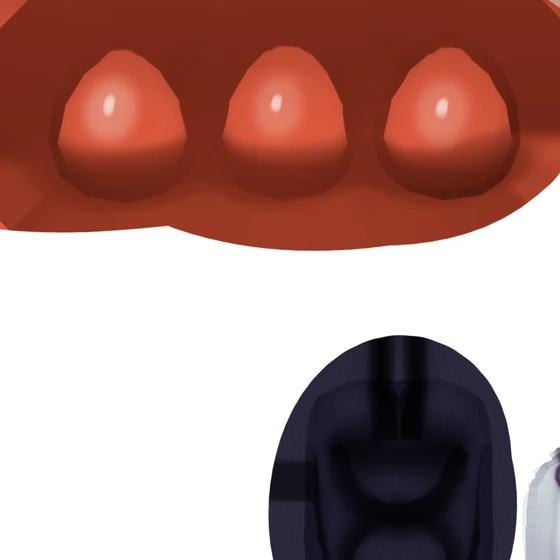
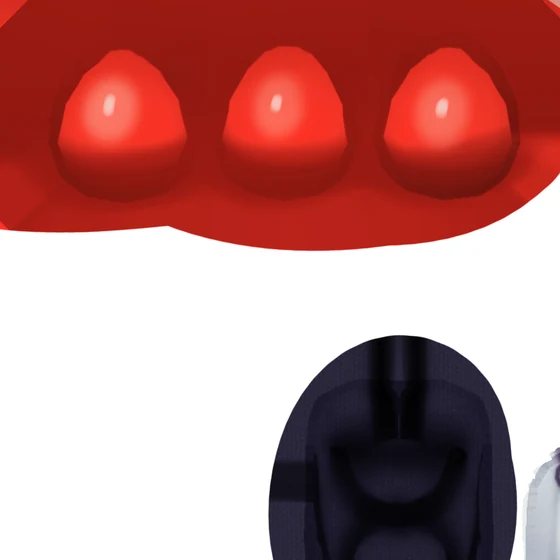
docs(manual): 実演とスクリーンショットの赤を作者プリセットの純赤に合わせる
実演の変更先に伝統色の「朱」(220,75,46) を使っていたが、作者プリセット AVATAR_A_Sneakers_Red /
Costume_Red_2 / Hair_Red の変更先はどれも純赤 (255,0,0) で、販促の赤とも食い違っていた。
変更先を純赤に固定し、スポイト位置もプリセットのサンプル色と同じトゲの明るい青にして、
製品の自動調整（AI 提案つき）で出し直した。伝統色は色見本の「ほかの色」として残し、先頭に赤を足す。

- 純赤では自動調整が模様保持を 0.9 に下げる。再現ゾーンが 1.0 固定で、再現検査（差 0 px）が止めた → 導出値を使う
- 模様保持の実演は 0.75 / 0.90 / 1.00（純赤だと 0.5 でもハイライトが灰色がかる）
- 許容範囲の実演（素のゾーン）は 0.30 でちょうどよく、0.60 で黒いアッパーへはみ出す掃引になった
- ウィンドウ全体・前後比較・差分表示を同じ状態で撮り直し。未使用の preview.webp を削除

diff --git a/docs/manual/index.html b/docs/manual/index.html
@@ -40,7 +40,7 @@
 <p>原本ファイルからも取り込み済みテクスチャからも画素を取り出せないとき（PSD・TGA・EXR などで Read/Write Enabled が無効なとき）は、ウィンドウに警告と「Read/Write を自動で有効にする」ボタンが出ます。ボタンを押すとインポート設定が書き換わり、有効になります。この操作は Undo できないため、確認ダイアログが出ます。PNG / JPG のテクスチャではこの警告は出ません。</p>
 </section>
 <section id="basics" data-id="basics" class="sec" data-sid="basics"><h2>基本的な使い方</h2>
-<figure class="ba"><div class="ba-stage"><img class="ba-after" src="img/demo/color-shu.webp" alt=""><img class="ba-before" src="img/demo/src.webp" alt=""><div class="ba-handle" role="slider" aria-valuemin="0" aria-valuemax="100" aria-valuenow="50" tabindex="0"><span></span></div><span class="ba-tag left">変更前</span><span class="ba-tag right">変更後</span></div><figcaption>つまんで左右に動かすと、変更前後を見比べられます</figcaption></figure>
+<figure class="ba"><div class="ba-stage"><img class="ba-after" src="img/demo/color-red.webp" alt=""><img class="ba-before" src="img/demo/src.webp" alt=""><div class="ba-handle" role="slider" aria-valuemin="0" aria-valuemax="100" aria-valuenow="50" tabindex="0"><span></span></div><span class="ba-tag left">変更前</span><span class="ba-tag right">変更後</span></div><figcaption>つまんで左右に動かすと、変更前後を見比べられます</figcaption></figure>
 <p>ウィンドウは ① 元テクスチャ → ② カラーゾーン → ③ プレビュー → ④ エクスポート の流れで上から並んでいます。番号どおりに進めれば一通り色替えできます。</p>
 <h3 id="basics--ステップ-1-元テクスチャを選ぶ" data-id="basics--ステップ-1-元テクスチャを選ぶ">ステップ 1: 元テクスチャを選ぶ</h3>
 <p>「① 元テクスチャ」の「テクスチャ」欄に、色を変えたいテクスチャをドラッグするか、欄をクリックして選びます。選ぶとプレビューに表示されます。</p>
@@ -71,17 +71,17 @@
 <ul><li>AI（Unity Sentis と AI モデル）が未導入のときは解析せず、導入・ダウンロードの案内を出します（「AI マスク提案」の「必要なもの」参照）。</li><li>AI が準備中（モデルのロード・画像の埋め込み計算）のときは、終わるまで待ってから解析します（進捗バーと中止ボタンが出ます）。</li><li>スポイトではなくカラーフィールドで色を指定したゾーンには位置がないため、AI 提案を参照せずに解析します（その旨の通知が出ます）。</li></ul>
 <h4 id="zones--許容範囲" data-id="zones--許容範囲" class="term">許容範囲</h4>
 <p>色の一致をどこまで許すかです（0.0〜1.0）。だいたい 0.15〜0.40 で調整します。</p>
-<figure class="demo" data-demo="tolerance" data-values="[&quot;0.05&quot;, &quot;0.20&quot;, &quot;0.30&quot;, &quot;0.45&quot;, &quot;0.60&quot;]" data-frames="[&quot;img/demo/tol-005.webp&quot;, &quot;img/demo/tol-020.webp&quot;, &quot;img/demo/tol-030.webp&quot;, &quot;img/demo/tol-045.webp&quot;, &quot;img/demo/tol-060.webp&quot;]" data-start="1"><figcaption class="demo-head"><span class="demo-title">許容範囲を動かす（自動調整を使わない場合）</span></figcaption><div class="stage"><img class="fr on" src="img/demo/tol-020.webp" alt="" width="560" height="560" loading="lazy"></div><div class="slider"><span class="lab">許容範囲</span><input type="range" min="0" max="4" step="1" value="1" aria-label="許容範囲"><output>0.20</output></div><p class="demo-note"><span class="frame-tag"><span class="tag" data-i="0">芯が大きく残る</span><span class="tag on" data-i="1">ハイライトの芯が残る（新規ゾーンの初期値）</span><span class="tag" data-i="2">まだ芯が残る</span><span class="tag" data-i="3">芯は消えたが、黒いアッパーが染まった</span><span class="tag" data-i="4">はみ出す</span></span>ハイライトの芯が消えるまで上げると、先に隣の黒い素材が染まります。自動調整はここを上げずに、ハイライトだけを拾います</p></figure>
+<figure class="demo" data-demo="tolerance" data-values="[&quot;0.05&quot;, &quot;0.20&quot;, &quot;0.30&quot;, &quot;0.45&quot;, &quot;0.60&quot;]" data-frames="[&quot;img/demo/tol-005.webp&quot;, &quot;img/demo/tol-020.webp&quot;, &quot;img/demo/tol-030.webp&quot;, &quot;img/demo/tol-045.webp&quot;, &quot;img/demo/tol-060.webp&quot;]" data-start="1"><figcaption class="demo-head"><span class="demo-title">許容範囲を動かす（自動調整を使わない場合）</span></figcaption><div class="stage"><img class="fr on" src="img/demo/tol-020.webp" alt="" width="560" height="560" loading="lazy"></div><div class="slider"><span class="lab">許容範囲</span><input type="range" min="0" max="4" step="1" value="1" aria-label="許容範囲"><output>0.20</output></div><p class="demo-note"><span class="frame-tag"><span class="tag" data-i="0">芯が大きく残る</span><span class="tag on" data-i="1">ハイライトの芯が残る（新規ゾーンの初期値）</span><span class="tag" data-i="2">ちょうどよい</span><span class="tag" data-i="3">広め</span><span class="tag" data-i="4">黒いアッパーへはみ出す</span></span>狭いとハイライトの芯が残り、広げすぎると隣の黒い素材へ回ります</p></figure>
 <div class="table-wrap"><table><thead><tr><th>値</th><th>効果</th></tr></thead><tbody><tr><td>低い</td><td>厳密に判定する（選択が狭い）</td></tr><tr><td>高い</td><td>広く判定する（選択が広い、ノイズも増える）</td></tr></tbody></table></div>
 <h4 id="zones--連続領域モードflood-fill" data-id="zones--連続領域モードflood-fill" class="term">連続領域モード（Flood Fill）</h4>
 <p>色が一致した領域のうち、確信度の高い芯を含む「つながった塊」だけに変換を絞り込みます。離れた場所にある同じ色のパーツや、背景へのにじみを自動で取り除きます。既定は自動（シード不要）です。</p>
 <p>塊が複数あって特定の 1 つだけ残したいときは、シードを置きます。ゾーンの「シード (任意)」行にある「指定」を押してからプレビューをクリックすると、そのゾーンにシードが入ります（1 回で解除）。プレビュー上で Shift+クリックしても置けます。「自動へ」を押すとシードを解除して自動に戻ります。</p>
 <h4 id="zones--変更先カラー" data-id="zones--変更先カラー" class="term">変更先カラー</h4>
 <p>変えたあとの色です。対象のピクセルがこの色になります。</p>
-<figure class="demo" data-demo="palette" data-values="[&quot;shu&quot;, &quot;akane&quot;, &quot;yamabuki&quot;, &quot;wakakusa&quot;, &quot;tokiwa&quot;, &quot;seiji&quot;, &quot;sumire&quot;, &quot;sakura&quot;]" data-frames="[&quot;img/demo/color-shu.webp&quot;, &quot;img/demo/color-akane.webp&quot;, &quot;img/demo/color-yamabuki.webp&quot;, &quot;img/demo/color-wakakusa.webp&quot;, &quot;img/demo/color-tokiwa.webp&quot;, &quot;img/demo/color-seiji.webp&quot;, &quot;img/demo/color-sumire.webp&quot;, &quot;img/demo/color-sakura.webp&quot;]" data-start="0"><figcaption class="demo-head"><span class="demo-title">変更先カラーを変える</span></figcaption><div class="stage"><img class="fr on" src="img/demo/color-shu.webp" alt="" width="560" height="560" loading="lazy"></div><div class="swatches" role="radiogroup"><button type="button" class="sw on" data-i="0" style="--sw:#dc4b2e" title="朱"><span>朱</span></button><button type="button" class="sw" data-i="1" style="--sw:#a62a37" title="茜"><span>茜</span></button><button type="button" class="sw" data-i="2" style="--sw:#f2a33c" title="山吹"><span>山吹</span></button><button type="button" class="sw" data-i="3" style="--sw:#6fbf5b" title="若草"><span>若草</span></button><button type="button" class="sw" data-i="4" style="--sw:#227657" title="常磐"><span>常磐</span></button><button type="button" class="sw" data-i="5" style="--sw:#6ebaa8" title="青磁"><span>青磁</span></button><button type="button" class="sw" data-i="6" style="--sw:#7a4ab2" title="菫"><span>菫</span></button><button type="button" class="sw" data-i="7" style="--sw:#eea9ba" title="桜"><span>桜</span></button></div><p class="demo-note"><span class="frame-tag"><span class="tag on" data-i="0">朱</span><span class="tag" data-i="1">茜</span><span class="tag" data-i="2">山吹</span><span class="tag" data-i="3">若草</span><span class="tag" data-i="4">常磐</span><span class="tag" data-i="5">青磁</span><span class="tag" data-i="6">菫</span><span class="tag" data-i="7">桜</span></span>どれもスポイト 1 回 → 自動調整の結果。色ごとに設定を変えてはいません</p></figure>
+<figure class="demo" data-demo="palette" data-values="[&quot;red&quot;, &quot;shu&quot;, &quot;akane&quot;, &quot;yamabuki&quot;, &quot;wakakusa&quot;, &quot;tokiwa&quot;, &quot;seiji&quot;, &quot;sumire&quot;, &quot;sakura&quot;]" data-frames="[&quot;img/demo/color-red.webp&quot;, &quot;img/demo/color-shu.webp&quot;, &quot;img/demo/color-akane.webp&quot;, &quot;img/demo/color-yamabuki.webp&quot;, &quot;img/demo/color-wakakusa.webp&quot;, &quot;img/demo/color-tokiwa.webp&quot;, &quot;img/demo/color-seiji.webp&quot;, &quot;img/demo/color-sumire.webp&quot;, &quot;img/demo/color-sakura.webp&quot;]" data-start="0"><figcaption class="demo-head"><span class="demo-title">変更先カラーを変える</span></figcaption><div class="stage"><img class="fr on" src="img/demo/color-red.webp" alt="" width="560" height="560" loading="lazy"></div><div class="swatches" role="radiogroup"><button type="button" class="sw on" data-i="0" style="--sw:#ff0000" title="赤"><span>赤</span></button><button type="button" class="sw" data-i="1" style="--sw:#dc4b2e" title="朱"><span>朱</span></button><button type="button" class="sw" data-i="2" style="--sw:#a62a37" title="茜"><span>茜</span></button><button type="button" class="sw" data-i="3" style="--sw:#f2a33c" title="山吹"><span>山吹</span></button><button type="button" class="sw" data-i="4" style="--sw:#6fbf5b" title="若草"><span>若草</span></button><button type="button" class="sw" data-i="5" style="--sw:#227657" title="常磐"><span>常磐</span></button><button type="button" class="sw" data-i="6" style="--sw:#6ebaa8" title="青磁"><span>青磁</span></button><button type="button" class="sw" data-i="7" style="--sw:#7a4ab2" title="菫"><span>菫</span></button><button type="button" class="sw" data-i="8" style="--sw:#eea9ba" title="桜"><span>桜</span></button></div><p class="demo-note"><span class="frame-tag"><span class="tag on" data-i="0">赤</span><span class="tag" data-i="1">朱</span><span class="tag" data-i="2">茜</span><span class="tag" data-i="3">山吹</span><span class="tag" data-i="4">若草</span><span class="tag" data-i="5">常磐</span><span class="tag" data-i="6">青磁</span><span class="tag" data-i="7">菫</span><span class="tag" data-i="8">桜</span></span>どれもスポイト 1 回 → 自動調整の結果。色ごとに設定を変えてはいません</p></figure>
 <h4 id="zones--模様保持" data-id="zones--模様保持" class="term">模様保持</h4>
 <p>変更後に元の明度をどれだけ残すかです。</p>
-<figure class="demo" data-demo="blend" data-values="[&quot;0.50&quot;, &quot;0.75&quot;, &quot;1.00&quot;]" data-frames="[&quot;img/demo/blend-050.webp&quot;, &quot;img/demo/blend-075.webp&quot;, &quot;img/demo/blend-100.webp&quot;]" data-start="2"><figcaption class="demo-head"><span class="demo-title">模様保持を動かす</span></figcaption><div class="stage"><img class="fr on" src="img/demo/blend-100.webp" alt="" width="560" height="560" loading="lazy"></div><div class="slider"><span class="lab">模様保持</span><input type="range" min="0" max="2" step="1" value="2" aria-label="模様保持"><output>1.00</output></div><p class="demo-note"><span class="frame-tag"><span class="tag" data-i="0">陰影が浅い</span><span class="tag on" data-i="2">元の陰影のまま（既定）</span></span>下げるほど陰影が浅くなり、ベタ塗りに近づきます（既定 1.0）</p></figure>
+<figure class="demo" data-demo="blend" data-values="[&quot;0.75&quot;, &quot;0.90&quot;, &quot;1.00&quot;]" data-frames="[&quot;img/demo/blend-075.webp&quot;, &quot;img/demo/blend-090.webp&quot;, &quot;img/demo/blend-100.webp&quot;]" data-start="1"><figcaption class="demo-head"><span class="demo-title">模様保持を動かす</span></figcaption><div class="stage"><img class="fr on" src="img/demo/blend-090.webp" alt="" width="560" height="560" loading="lazy"></div><div class="slider"><span class="lab">模様保持</span><input type="range" min="0" max="2" step="1" value="1" aria-label="模様保持"><output>0.90</output></div><p class="demo-note"><span class="frame-tag"><span class="tag" data-i="0">陰影が浅い</span><span class="tag on" data-i="1">純赤で自動調整が選ぶ値</span><span class="tag" data-i="2">元の陰影のまま（既定）</span></span>下げるほど陰影が浅くなり、ベタ塗りに近づきます（既定 1.0）</p></figure>
 <ul><li>0 に近い: 変更先の明度に合わせます（ベタ塗り風）</li><li>0.5: 元の明度を半分ほど残します</li><li>1 に近い: 元の柄をほぼそのまま残します（既定 1.0）</li></ul>
 <h4 id="zones--出力彩度" data-id="zones--出力彩度" class="term">出力彩度</h4>
 <p>再着色後の鮮やかさです（既定 1.0）。彩度 100% の純色（純赤など）は明暗のグラデーションが潰れてベタ塗りに見えがちです。0.7〜0.9 あたりに下げると、色相は保ったまま陰影が戻ります。</p>
@@ -252,7 +252,7 @@
 <p>When pixels can be obtained neither from the source file nor from the imported texture (for example a PSD, TGA or EXR with Read/Write Enabled off), the window shows a warning and an "Enable Read/Write automatically" button. Clicking it changes the import settings to turn it on. This cannot be undone, so a confirmation dialog appears first. PNG and JPG textures never show this warning.</p>
 </section>
 <section data-id="basics" class="sec" data-sid="basics"><h2>Basic Usage</h2>
-<figure class="ba"><div class="ba-stage"><img class="ba-after" src="img/demo/color-shu.webp" alt=""><img class="ba-before" src="img/demo/src.webp" alt=""><div class="ba-handle" role="slider" aria-valuemin="0" aria-valuemax="100" aria-valuenow="50" tabindex="0"><span></span></div><span class="ba-tag left">Before</span><span class="ba-tag right">After</span></div><figcaption>Drag the handle to compare before and after</figcaption></figure>
+<figure class="ba"><div class="ba-stage"><img class="ba-after" src="img/demo/color-red.webp" alt=""><img class="ba-before" src="img/demo/src.webp" alt=""><div class="ba-handle" role="slider" aria-valuemin="0" aria-valuemax="100" aria-valuenow="50" tabindex="0"><span></span></div><span class="ba-tag left">Before</span><span class="ba-tag right">After</span></div><figcaption>Drag the handle to compare before and after</figcaption></figure>
 <p>The window is laid out top to bottom: 1. Source Texture, 2. Color Zones, 3. Preview, 4. Export. Follow the numbers and you can recolor a texture end to end.</p>
 <h3 data-id="basics--step-1-pick-a-source-texture">Step 1: Pick a source texture</h3>
 <p>Drag a texture onto the "Texture" field under "Source Texture", or click the field to choose one. It appears in the preview.</p>
@@ -282,17 +282,17 @@
 <ul><li>If the AI (Unity Sentis and the AI models) is not installed, nothing is analyzed; instead you are asked to install/download it (see "Requirements" under AI Mask Suggestion).</li><li>If the AI is still getting ready (loading the model, computing the image embedding), Auto-tune waits for it (a progress bar and a Cancel button are shown).</li><li>A zone whose color was typed into the color field instead of sampled has no position, so it is analyzed without the AI suggestion (a notice is shown).</li></ul>
 <h4 data-id="zones--tolerance" class="term">Tolerance</h4>
 <p>How far a color can be from the sample and still match (0.0-1.0). A range of about 0.15-0.40 works for most cases.</p>
-<figure class="demo" data-demo="tolerance" data-values="[&quot;0.05&quot;, &quot;0.20&quot;, &quot;0.30&quot;, &quot;0.45&quot;, &quot;0.60&quot;]" data-frames="[&quot;img/demo/tol-005.webp&quot;, &quot;img/demo/tol-020.webp&quot;, &quot;img/demo/tol-030.webp&quot;, &quot;img/demo/tol-045.webp&quot;, &quot;img/demo/tol-060.webp&quot;]" data-start="1"><figcaption class="demo-head"><span class="demo-title">Move the tolerance (without Auto-tune)</span></figcaption><div class="stage"><img class="fr on" src="img/demo/tol-020.webp" alt="" width="560" height="560" loading="lazy"></div><div class="slider"><span class="lab">Tolerance</span><input type="range" min="0" max="4" step="1" value="1" aria-label="Tolerance"><output>0.20</output></div><p class="demo-note"><span class="frame-tag"><span class="tag" data-i="0">Large cores left</span><span class="tag on" data-i="1">Highlight cores left (new-zone default)</span><span class="tag" data-i="2">Cores still left</span><span class="tag" data-i="3">Cores gone, but the black upper is tinted</span><span class="tag" data-i="4">Spills over</span></span>Raise it until the highlight cores go, and the black material next door gets tinted first. Auto-tune picks up the highlights without raising it</p></figure>
+<figure class="demo" data-demo="tolerance" data-values="[&quot;0.05&quot;, &quot;0.20&quot;, &quot;0.30&quot;, &quot;0.45&quot;, &quot;0.60&quot;]" data-frames="[&quot;img/demo/tol-005.webp&quot;, &quot;img/demo/tol-020.webp&quot;, &quot;img/demo/tol-030.webp&quot;, &quot;img/demo/tol-045.webp&quot;, &quot;img/demo/tol-060.webp&quot;]" data-start="1"><figcaption class="demo-head"><span class="demo-title">Move the tolerance (without Auto-tune)</span></figcaption><div class="stage"><img class="fr on" src="img/demo/tol-020.webp" alt="" width="560" height="560" loading="lazy"></div><div class="slider"><span class="lab">Tolerance</span><input type="range" min="0" max="4" step="1" value="1" aria-label="Tolerance"><output>0.20</output></div><p class="demo-note"><span class="frame-tag"><span class="tag" data-i="0">Large cores left</span><span class="tag on" data-i="1">Highlight cores left (new-zone default)</span><span class="tag" data-i="2">About right</span><span class="tag" data-i="3">Wide</span><span class="tag" data-i="4">Spills into the black upper</span></span>Too narrow leaves the highlight cores; too wide spills into the black material next door</p></figure>
 <div class="table-wrap"><table><thead><tr><th>Value</th><th>Effect</th></tr></thead><tbody><tr><td>Low</td><td>Stricter matching (narrower selection)</td></tr><tr><td>High</td><td>Looser matching (wider selection, more noise)</td></tr></tbody></table></div>
 <h4 data-id="zones--connected-region-flood-fill" class="term">Connected Region (Flood Fill)</h4>
 <p>Restricts recoloring to the connected region that contains a high-confidence core, and removes bleed into same-color parts elsewhere or into the background. It runs automatically by default, with no seed needed.</p>
 <p>When several regions exist and you want to keep only one, set a seed. Press "Set" on the zone's "Seed (optional)" row and then click the preview, and the seed goes to that zone (it disarms after one click). Shift+click on the preview also works. Press "Auto" to clear the seed and return to automatic behavior.</p>
 <h4 data-id="zones--target-color" class="term">Target Color</h4>
 <p>The color applied after recoloring. Matched pixels become this color.</p>
-<figure class="demo" data-demo="palette" data-values="[&quot;shu&quot;, &quot;akane&quot;, &quot;yamabuki&quot;, &quot;wakakusa&quot;, &quot;tokiwa&quot;, &quot;seiji&quot;, &quot;sumire&quot;, &quot;sakura&quot;]" data-frames="[&quot;img/demo/color-shu.webp&quot;, &quot;img/demo/color-akane.webp&quot;, &quot;img/demo/color-yamabuki.webp&quot;, &quot;img/demo/color-wakakusa.webp&quot;, &quot;img/demo/color-tokiwa.webp&quot;, &quot;img/demo/color-seiji.webp&quot;, &quot;img/demo/color-sumire.webp&quot;, &quot;img/demo/color-sakura.webp&quot;]" data-start="0"><figcaption class="demo-head"><span class="demo-title">Change the target color</span></figcaption><div class="stage"><img class="fr on" src="img/demo/color-shu.webp" alt="" width="560" height="560" loading="lazy"></div><div class="swatches" role="radiogroup"><button type="button" class="sw on" data-i="0" style="--sw:#dc4b2e" title="Shu"><span>Shu</span></button><button type="button" class="sw" data-i="1" style="--sw:#a62a37" title="Akane"><span>Akane</span></button><button type="button" class="sw" data-i="2" style="--sw:#f2a33c" title="Yamabuki"><span>Yamabuki</span></button><button type="button" class="sw" data-i="3" style="--sw:#6fbf5b" title="Wakakusa"><span>Wakakusa</span></button><button type="button" class="sw" data-i="4" style="--sw:#227657" title="Tokiwa"><span>Tokiwa</span></button><button type="button" class="sw" data-i="5" style="--sw:#6ebaa8" title="Seiji"><span>Seiji</span></button><button type="button" class="sw" data-i="6" style="--sw:#7a4ab2" title="Sumire"><span>Sumire</span></button><button type="button" class="sw" data-i="7" style="--sw:#eea9ba" title="Sakura"><span>Sakura</span></button></div><p class="demo-note"><span class="frame-tag"><span class="tag on" data-i="0">Shu</span><span class="tag" data-i="1">Akane</span><span class="tag" data-i="2">Yamabuki</span><span class="tag" data-i="3">Wakakusa</span><span class="tag" data-i="4">Tokiwa</span><span class="tag" data-i="5">Seiji</span><span class="tag" data-i="6">Sumire</span><span class="tag" data-i="7">Sakura</span></span>Each is one eyedropper click plus Auto-tune — no per-color tuning</p></figure>
+<figure class="demo" data-demo="palette" data-values="[&quot;red&quot;, &quot;shu&quot;, &quot;akane&quot;, &quot;yamabuki&quot;, &quot;wakakusa&quot;, &quot;tokiwa&quot;, &quot;seiji&quot;, &quot;sumire&quot;, &quot;sakura&quot;]" data-frames="[&quot;img/demo/color-red.webp&quot;, &quot;img/demo/color-shu.webp&quot;, &quot;img/demo/color-akane.webp&quot;, &quot;img/demo/color-yamabuki.webp&quot;, &quot;img/demo/color-wakakusa.webp&quot;, &quot;img/demo/color-tokiwa.webp&quot;, &quot;img/demo/color-seiji.webp&quot;, &quot;img/demo/color-sumire.webp&quot;, &quot;img/demo/color-sakura.webp&quot;]" data-start="0"><figcaption class="demo-head"><span class="demo-title">Change the target color</span></figcaption><div class="stage"><img class="fr on" src="img/demo/color-red.webp" alt="" width="560" height="560" loading="lazy"></div><div class="swatches" role="radiogroup"><button type="button" class="sw on" data-i="0" style="--sw:#ff0000" title="Red"><span>Red</span></button><button type="button" class="sw" data-i="1" style="--sw:#dc4b2e" title="Shu"><span>Shu</span></button><button type="button" class="sw" data-i="2" style="--sw:#a62a37" title="Akane"><span>Akane</span></button><button type="button" class="sw" data-i="3" style="--sw:#f2a33c" title="Yamabuki"><span>Yamabuki</span></button><button type="button" class="sw" data-i="4" style="--sw:#6fbf5b" title="Wakakusa"><span>Wakakusa</span></button><button type="button" class="sw" data-i="5" style="--sw:#227657" title="Tokiwa"><span>Tokiwa</span></button><button type="button" class="sw" data-i="6" style="--sw:#6ebaa8" title="Seiji"><span>Seiji</span></button><button type="button" class="sw" data-i="7" style="--sw:#7a4ab2" title="Sumire"><span>Sumire</span></button><button type="button" class="sw" data-i="8" style="--sw:#eea9ba" title="Sakura"><span>Sakura</span></button></div><p class="demo-note"><span class="frame-tag"><span class="tag on" data-i="0">Red</span><span class="tag" data-i="1">Shu</span><span class="tag" data-i="2">Akane</span><span class="tag" data-i="3">Yamabuki</span><span class="tag" data-i="4">Wakakusa</span><span class="tag" data-i="5">Tokiwa</span><span class="tag" data-i="6">Seiji</span><span class="tag" data-i="7">Sumire</span><span class="tag" data-i="8">Sakura</span></span>Each is one eyedropper click plus Auto-tune — no per-color tuning</p></figure>
 <h4 data-id="zones--pattern-preserve" class="term">Pattern Preserve</h4>
 <p>How much of the original brightness to keep after recoloring.</p>
-<figure class="demo" data-demo="blend" data-values="[&quot;0.50&quot;, &quot;0.75&quot;, &quot;1.00&quot;]" data-frames="[&quot;img/demo/blend-050.webp&quot;, &quot;img/demo/blend-075.webp&quot;, &quot;img/demo/blend-100.webp&quot;]" data-start="2"><figcaption class="demo-head"><span class="demo-title">Move Pattern Preserve</span></figcaption><div class="stage"><img class="fr on" src="img/demo/blend-100.webp" alt="" width="560" height="560" loading="lazy"></div><div class="slider"><span class="lab">Pattern Preserve</span><input type="range" min="0" max="2" step="1" value="2" aria-label="Pattern Preserve"><output>1.00</output></div><p class="demo-note"><span class="frame-tag"><span class="tag" data-i="0">Shallow shading</span><span class="tag on" data-i="2">Original shading (default)</span></span>The lower it goes, the shallower the shading — closer to a flat fill (default 1.0)</p></figure>
+<figure class="demo" data-demo="blend" data-values="[&quot;0.75&quot;, &quot;0.90&quot;, &quot;1.00&quot;]" data-frames="[&quot;img/demo/blend-075.webp&quot;, &quot;img/demo/blend-090.webp&quot;, &quot;img/demo/blend-100.webp&quot;]" data-start="1"><figcaption class="demo-head"><span class="demo-title">Move Pattern Preserve</span></figcaption><div class="stage"><img class="fr on" src="img/demo/blend-090.webp" alt="" width="560" height="560" loading="lazy"></div><div class="slider"><span class="lab">Pattern Preserve</span><input type="range" min="0" max="2" step="1" value="1" aria-label="Pattern Preserve"><output>0.90</output></div><p class="demo-note"><span class="frame-tag"><span class="tag" data-i="0">Shallow shading</span><span class="tag on" data-i="1">What Auto-tune picks for pure red</span><span class="tag" data-i="2">Original shading (default)</span></span>The lower it goes, the shallower the shading — closer to a flat fill (default 1.0)</p></figure>
 <ul><li>Near 0: matches the target brightness (flat recolor)</li><li>0.5: keeps about half of the original brightness</li><li>Near 1: keeps the original pattern almost as is (default 1.0)</li></ul>
 <h4 data-id="zones--output-saturation" class="term">Output Saturation</h4>
 <p>The vividness after recoloring (default 1.0). Fully saturated colors such as pure red tend to flatten the brightness gradient and look solid-filled. Lowering it to around 0.7-0.9 keeps the hue while bringing the shading back.</p>

diff --git a/docs/manual/build_assets.py b/docs/manual/build_assets.py
@@ -42,13 +42,16 @@ TEXTURE = ROOT / "dev_safe" / "texture_sample" / "HAOLAN" / "Texture" / "HAOLAN_
 OUT = ROOT / "docs" / "manual" / "img" / "demo"
 SUBJECT_ID = "haolan-sneakers"
 
-# スポイト位置（テクスチャ画素座標）。マニュアルのスクリーンショットで菱形が出ている場所と同じ。
-CLICK_XY = (500, 420)
-SHU = (220, 75, 46)            # 朱。実演の既定の変更先
+# スポイト位置（テクスチャ画素座標）。作者プリセット HAOLAN_Sneakers_Red のサンプル色
+# (63,0,242) と同じ、トゲの明るい青。スクリーンショットの菱形もここに出す。
+CLICK_XY = (700, 230)
+# 実演の既定の変更先 = 作者プリセットと同じ純赤。ここは固定（販促の赤と食い違わせない）。
+RED = (255, 0, 0)
 
 # 販促と同じ伝統色パレット（元が青なので青系は入れない）。
 PALETTE = [
-    ("shu", "朱", SHU),
+    ("red", "赤", RED),
+    ("shu", "朱", (220, 75, 46)),
     ("akane", "茜", (166, 42, 55)),
     ("yamabuki", "山吹", (242, 163, 60)),
     ("wakakusa", "若草", (111, 191, 91)),
@@ -67,12 +70,11 @@ WEBP = dict(format="WEBP", quality=88, method=5)
 
 # 許容範囲の実演だけは「自動調整を押していない素のゾーン」で振る。自動調整後は彩度ガードと
 # 陰影の明度下限が入り、許容範囲を上げてもほぼはみ出さない（製品として正しいが、スライダーの
-# 効き方は見えなくなる）。素のゾーンだと 0.30 でもハイライトの芯が残り、芯が消える 0.45 では
-# 黒いアッパーまで染まる — 自動調整が要る理由がそのまま画になる。
+# 効き方は見えなくなる）。素のゾーンだと狭い側でハイライトの芯が残り、0.60 で黒いアッパーへ回る。
 TOLERANCES = [0.05, 0.20, 0.30, 0.45, 0.60]
 # 模様保持は 0.5 未満を出さない。0 に近づけると明度だけが平らになり、ハイライトの芯が灰色に
 # 沈んで見える（製品の実出力だが、設定の説明図としては誤解を招く）。
-BLENDS = [0.50, 0.75, 1.0]
+BLENDS = [0.75, 0.90, 1.0]   # 0.90 = 純赤で自動調整が選ぶ値。0.5 以下は純赤だとハイライトが灰色がかる
 SATURATIONS = [0.50, 0.70, 0.85, 1.00]
 
 
@@ -103,9 +105,10 @@ def explicit_zone(params: dict, target_rgb, **over) -> dict:
         "sample": list(params["sample"]),
         "samples": params.get("autoSampleColors") or None,
         "target": [c / 255.0 for c in target_rgb],
-        "valueBlend": 1.0, "outputSaturation": 1.0,
+        "outputSaturation": 1.0,
     }
-    for k in ("tolerance", "saturationStrictness", "saturationGuard", "chromaThreshold",
+    # valueBlend も導出値を使う（純色の変更先では自動調整が 0.9 へ下げる。1.0 固定だと再現がずれる）
+    for k in ("tolerance", "valueBlend", "saturationStrictness", "saturationGuard", "chromaThreshold",
               "highlightRecovery", "edgeSoftness", "shadowDesaturation",
               "shadowForgivenessSatMin", "shadowValueFloor", "chromaCeiling"):
         z[k] = params[k]
@@ -127,7 +130,6 @@ SHOTS = [
     # (出力名, 原板, クロップ or None=全体)
     ("window", "window.png", None),
     ("zone-card", "window.png", (6, 112, 402, 500)),
-    ("preview", "window.png", (400, 112, 1012, 682)),
     ("zone-detail", "zone-detail.png", (6, 215, 402, 815)),
     ("processing", "processing-presets.png", (6, 437, 402, 692)),
     ("mask-section", "processing-presets.png", (6, 697, 402, 778)),
@@ -178,7 +180,7 @@ def main() -> None:
             raise SystemExit(f"{slug}: 証拠が使われていない: {params.get('evidenceDiag')}")
         save(out[:, :, :3], f"color-{slug}")
         print(f"   {jp} tol={params['tolerance']:.2f}")
-        if slug == "shu":
+        if slug == "red":
             base, base_out = params, out
 
     settings = F._settings_to_harness(F.default_settings())
@@ -186,7 +188,7 @@ def main() -> None:
         settings["antiAliasCleanup"] = base["antiAliasCleanup"]
 
     # 導出値の再現が自動調整の出力と一致することを確かめてから、1 項目ずつ動かす
-    ref = F.run_harness_many(rgba, [([explicit_zone(base, SHU)], settings, "manual-ref")])[0]
+    ref = F.run_harness_many(rgba, [([explicit_zone(base, RED)], settings, "manual-ref")])[0]
     diff = int(np.any(ref[..., :3] != base_out[..., :3], axis=-1).sum())
     print(f"パラメータ実演の土台: tol={base['tolerance']:.2f} / 自動調整の出力との差 {diff:,} px")
     if diff > rgba.shape[0] * rgba.shape[1] * 0.001:
@@ -195,12 +197,12 @@ def main() -> None:
     jobs: list[tuple[str, dict]] = []
     for t in TOLERANCES:
         plain = {"name": "manual-demo", "sample": list(sample),
-                 "target": [c / 255.0 for c in SHU], "tolerance": t}
+                 "target": [c / 255.0 for c in RED], "tolerance": t}
         jobs.append((f"tol-{int(round(t * 100)):03d}", plain))
     for b in BLENDS:
-        jobs.append((f"blend-{int(round(b * 100)):03d}", explicit_zone(base, SHU, valueBlend=b)))
+        jobs.append((f"blend-{int(round(b * 100)):03d}", explicit_zone(base, RED, valueBlend=b)))
     for sv in SATURATIONS:
-        jobs.append((f"sat-{int(round(sv * 100)):03d}", explicit_zone(base, SHU, outputSaturation=sv)))
+        jobs.append((f"sat-{int(round(sv * 100)):03d}", explicit_zone(base, RED, outputSaturation=sv)))
 
     plain_settings = F._settings_to_harness(F.default_settings())
     outs = F.run_harness_many(rgba, [([z], plain_settings if n.startswith("tol-") else settings,

diff --git a/docs/manual/build_manual.py b/docs/manual/build_manual.py
@@ -130,6 +130,7 @@ DEMOS = {
                "note": "Each is one eyedropper click plus Auto-tune — no per-color tuning"},
         "control": "swatch",
         "frames": [
+            {"v": "red", "img": "color-red", "ja": "赤", "en": "Red", "hex": "#ff0000"},
             {"v": "shu", "img": "color-shu", "ja": "朱", "en": "Shu", "hex": "#dc4b2e"},
             {"v": "akane", "img": "color-akane", "ja": "茜", "en": "Akane", "hex": "#a62a37"},
             {"v": "yamabuki", "img": "color-yamabuki", "ja": "山吹", "en": "Yamabuki", "hex": "#f2a33c"},
@@ -143,20 +144,17 @@ DEMOS = {
     },
     "tolerance": {
         "ja": {"title": "許容範囲を動かす（自動調整を使わない場合）", "label": "許容範囲",
-               "note": "ハイライトの芯が消えるまで上げると、先に隣の黒い素材が染まります。"
-                       "自動調整はここを上げずに、ハイライトだけを拾います"},
+               "note": "狭いとハイライトの芯が残り、広げすぎると隣の黒い素材へ回ります"},
         "en": {"title": "Move the tolerance (without Auto-tune)", "label": "Tolerance",
-               "note": "Raise it until the highlight cores go, and the black material next door "
-                       "gets tinted first. Auto-tune picks up the highlights without raising it"},
+               "note": "Too narrow leaves the highlight cores; too wide spills into the black material next door"},
         "control": "range",
         "frames": [
             {"v": "0.05", "img": "tol-005", "ja": "芯が大きく残る", "en": "Large cores left"},
             {"v": "0.20", "img": "tol-020", "ja": "ハイライトの芯が残る（新規ゾーンの初期値）",
              "en": "Highlight cores left (new-zone default)"},
-            {"v": "0.30", "img": "tol-030", "ja": "まだ芯が残る", "en": "Cores still left"},
-            {"v": "0.45", "img": "tol-045", "ja": "芯は消えたが、黒いアッパーが染まった",
-             "en": "Cores gone, but the black upper is tinted"},
-            {"v": "0.60", "img": "tol-060", "ja": "はみ出す", "en": "Spills over"},
+            {"v": "0.30", "img": "tol-030", "ja": "ちょうどよい", "en": "About right"},
+            {"v": "0.45", "img": "tol-045", "ja": "広め", "en": "Wide"},
+            {"v": "0.60", "img": "tol-060", "ja": "黒いアッパーへはみ出す", "en": "Spills into the black upper"},
         ],
         "start": 1,
     },
@@ -167,11 +165,11 @@ DEMOS = {
                "note": "The lower it goes, the shallower the shading — closer to a flat fill (default 1.0)"},
         "control": "range",
         "frames": [
-            {"v": "0.50", "img": "blend-050", "ja": "陰影が浅い", "en": "Shallow shading"},
-            {"v": "0.75", "img": "blend-075", "ja": "", "en": ""},
+            {"v": "0.75", "img": "blend-075", "ja": "陰影が浅い", "en": "Shallow shading"},
+            {"v": "0.90", "img": "blend-090", "ja": "純赤で自動調整が選ぶ値", "en": "What Auto-tune picks for pure red"},
             {"v": "1.00", "img": "blend-100", "ja": "元の陰影のまま（既定）", "en": "Original shading (default)"},
         ],
-        "start": 2,
+        "start": 1,
     },
     "saturation": {
         "ja": {"title": "出力彩度を動かす", "label": "出力彩度",
@@ -413,7 +411,7 @@ def render_before_after(lang: str) -> str:
             if lang == "ja" else "Drag the handle to compare before and after")
     return ('<figure class="ba">'
             '<div class="ba-stage">'
-            '<img class="ba-after" src="img/demo/color-shu.webp" alt="">'
+            '<img class="ba-after" src="img/demo/color-red.webp" alt="">'
             '<img class="ba-before" src="img/demo/src.webp" alt="">'
             '<div class="ba-handle" role="slider" aria-valuemin="0" aria-valuemax="100"'
             ' aria-valuenow="50" tabindex="0"><span></span></div>'

diff --git a/docs/manual/README.md b/docs/manual/README.md
@@ -33,7 +33,11 @@
 ## 実演コマの作り方
 
 **製品 C# が唯一の正**なので、コマ画像は headless ハーネス経由の実出力を使う
-（`docs/testing-architecture.md`）。被写体とパレットは販促素材と同じ HAOLAN スニーカーの青 → 伝統色。
+（`docs/testing-architecture.md`）。被写体は販促素材と同じ HAOLAN スニーカーの青。
+
+- **実演の既定の変更先は純赤 (255,0,0) で固定**、スポイト位置はトゲの明るい青。どちらも作者プリセット
+  `HAOLAN_Sneakers_Red`（`dev_safe/preset_samples/`）と同じ。朱など別の赤に変えると販促の赤と食い違う。
+  伝統色 8 色は色見本の「ほかの色」としてだけ使う。
 
 - **色見本・変更前後・模様保持・出力彩度**は、製品のワンショット経路（スポイト位置の AI マスク提案を
   証拠にした自動調整）で出す。**証拠なしの `--autotune` で作らないこと** — ハイライトの芯が青く
@@ -41,7 +45,8 @@
   （再現が自動調整の出力と一致することを `build_assets.py` が毎回確かめる）。
 - **許容範囲だけは素のゾーン**（自動調整なし）で振る。自動調整後は保護が入り、許容範囲を上げても
   ほぼはみ出さないため、スライダーの効き方が画にならない。
-- 模様保持は 0.5 未満を出さない（0 付近はハイライトの芯が灰色に沈む実出力になり、説明図として誤解を招く）。
+- 模様保持は 0.75 未満を出さない（純赤だと 0.5 でもハイライトが灰色がかる。0 付近は芯が灰色に沈む）。
+  純赤では自動調整が模様保持を 0.9 に下げるので、再現ゾーンも導出値を使う（1.0 固定だと再現がずれる）。
 - 切り出しは左上のトゲ周辺。右隣の淡いラベンダーの UV にじみ（既知の残り）は枠に入れない。
 - **出したコマは必ず等倍で目視する。** 変換漏れ（青い点）・元に無いノイズ・対象外の変色が無いこと。
 
